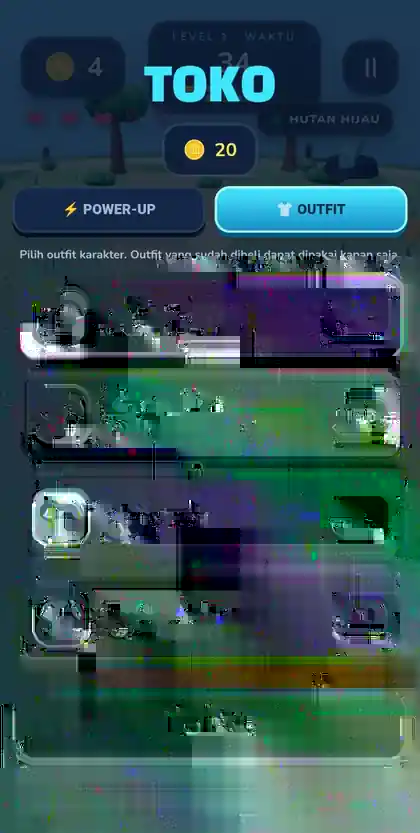
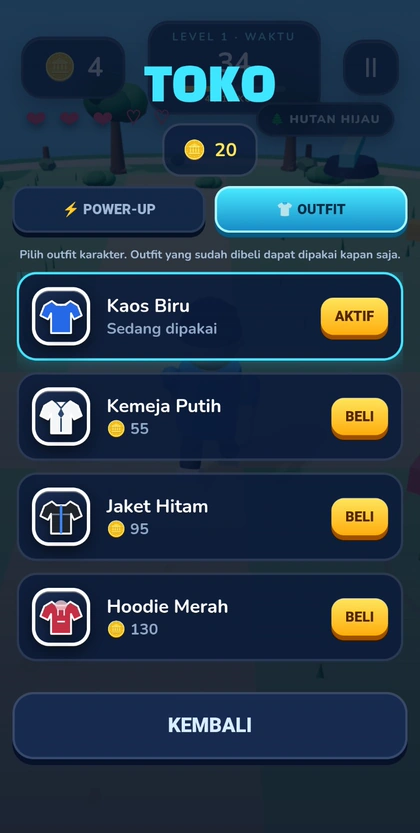
Replace corrupted outfit gameplay image

diff --git a/index.html b/index.html
@@ -121,7 +121,7 @@
           <figcaption><b>Toko Power-up</b><span>Shield, Extra Life, Magnet, dan Time Boost.</span></figcaption>
         </figure>
         <figure class="gameplay-slide">
-          <img src="/assets/gameplay/gameplay-shop-outfit.webp" alt="Toko outfit Coin Rush 3D" width="420" height="833" loading="lazy" decoding="async">
+          <img src="/assets/gameplay/gameplay-shop-outfit.webp?v=20260920-0044" alt="Toko outfit Coin Rush 3D" width="420" height="833" loading="lazy" decoding="async">
           <figcaption><b>Outfit</b><span>Kustomisasi karakter dengan outfit yang bisa dibuka.</span></figcaption>
         </figure>
         <figure class="gameplay-slide">
